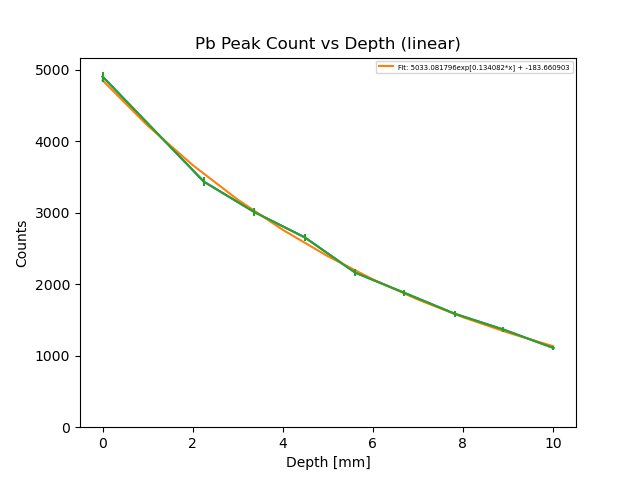
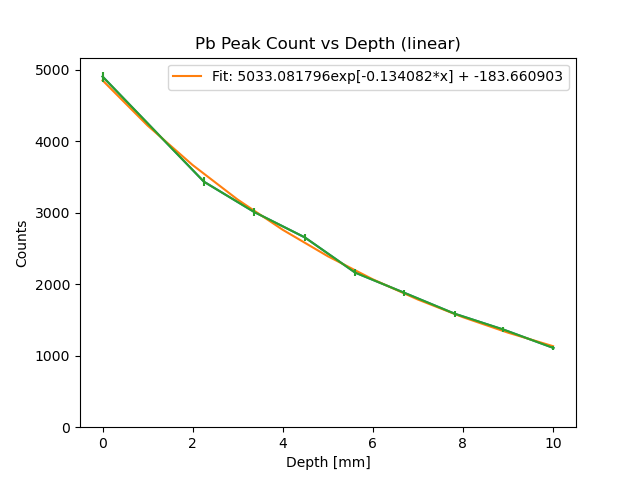
new graphs

Changed region(s): [[0.3125, 0.125, 0.9062, 0.1875], [0.25, 0.1562, 0.3125, 0.1875]]

diff --git a/main.py b/main.py
@@ -1,5 +1,6 @@
 import matplotlib.pyplot as plt
 import scipy.optimize as opt
+import numpy as np
 
 e = 2.7182818284590452353602874713527
 
@@ -70,7 +71,7 @@ def graph_peak_counts_vs_depth(data, log=False):
         plt.xlabel("Depth [mm]")
         plt.ylabel("Counts")
         plt.plot(depth, peaks)
-        plt.plot(*fit_data, label=f"Fit: {round(popt[0], 6)}exp[{round(popt[1], 6)}*x] + {round(popt[2], 6)}")
+        plt.plot(*fit_data, label=f"Fit: {round(popt[0], 6)}exp[-{round(popt[1], 6)}*x] + {round(popt[2], 6)}")
         plt.errorbar(depth, peaks, yerr=peaks_err)
         if log:
             plt.yscale('log')
@@ -79,12 +80,13 @@ def graph_peak_counts_vs_depth(data, log=False):
             plt.yscale('linear')
             plt.title(f"{data['NAME']} Peak Count vs Depth (linear)")
         plt.ylim(ymin=0)
-        plt.legend(fontsize=5)
+        plt.legend(fontsize=10)
         if log:
             plt.savefig(f"./{data['NAME']}_attenuation_log.png")
         else:
             plt.savefig(f"./{data['NAME']}_attenuation_linear.png")
         plt.clf()
+        return popt[1]
 
 
 def plot_and_peaks(data, log=False):
@@ -95,7 +97,32 @@ def plot_and_peaks(data, log=False):
     graph(bins, data, log=log)
 
 
+def plot_attenuation(attenfits):
+    plt.xlabel("Depth [mm]")
+    plt.ylabel("Proportion of Original Counts (log)")
+    for key in attenfits:
+        def expression(x):
+            return e ** (-attenfits[key]*x)
+        x_range = np.linspace(0, 1000, 10000)
+        plt.plot(x_range, [expression(x) for x in x_range], label=f"{key}: -{round(attenfits[key], 6)}")
+    # plt.ylim(ymin=0,)
+    # plt.xlim(xmin=-50, xmax=50)
+    plt.yscale('log')
+    plt.legend(title="Material Attenuation Coefficient", fontsize=5)
+    plt.title("Proportion of Original Counts vs Material Depth (log)")
+    plt.savefig("./Attenuation_Coefficient.png")
+    plt.clf()
+
+
 if __name__ == "__main__":
+
+    attenfits = {
+            "Pb": None,
+            "Al": None,
+            "Steel": None,
+            "W": None,
+            }
+
     Pb = {
         "NAME": "Pb",
         "0": import_data("./ExtensionData/22Na.dat"),
@@ -111,8 +138,8 @@ if __name__ == "__main__":
 
     plot_and_peaks(Pb, log=True)
     plot_and_peaks(Pb, log=False)
-    graph_peak_counts_vs_depth(Pb, log=True)
-    graph_peak_counts_vs_depth(Pb, log=False)
+    _ = graph_peak_counts_vs_depth(Pb, log=True)
+    attenfits["Pb"] = graph_peak_counts_vs_depth(Pb, log=False)
 
     Al = {
         "NAME": "Al",
@@ -136,8 +163,8 @@ if __name__ == "__main__":
 
     plot_and_peaks(Al, log=True)
     plot_and_peaks(Al, log=False)
-    graph_peak_counts_vs_depth(Al, log=True)
-    graph_peak_counts_vs_depth(Al, log=False)
+    _ = graph_peak_counts_vs_depth(Al, log=True)
+    attenfits["Al"] = graph_peak_counts_vs_depth(Al, log=False)
 
     Steel = {
         "NAME": "Steel",
@@ -158,8 +185,8 @@ if __name__ == "__main__":
 
     plot_and_peaks(Steel, log=True)
     plot_and_peaks(Steel, log=False)
-    graph_peak_counts_vs_depth(Steel, log=True)
-    graph_peak_counts_vs_depth(Steel, log=False)
+    _ = graph_peak_counts_vs_depth(Steel, log=True)
+    attenfits["Steel"] = graph_peak_counts_vs_depth(Steel, log=False)
 
     W = {
         "NAME": "W",
@@ -180,5 +207,7 @@ if __name__ == "__main__":
 
     plot_and_peaks(W, log=True)
     plot_and_peaks(W, log=False)
-    graph_peak_counts_vs_depth(W, log=True)
-    graph_peak_counts_vs_depth(W, log=False)
+    _ = graph_peak_counts_vs_depth(W, log=True)
+    attenfits["W"] = graph_peak_counts_vs_depth(W, log=False)
+
+    plot_attenuation(attenfits)
